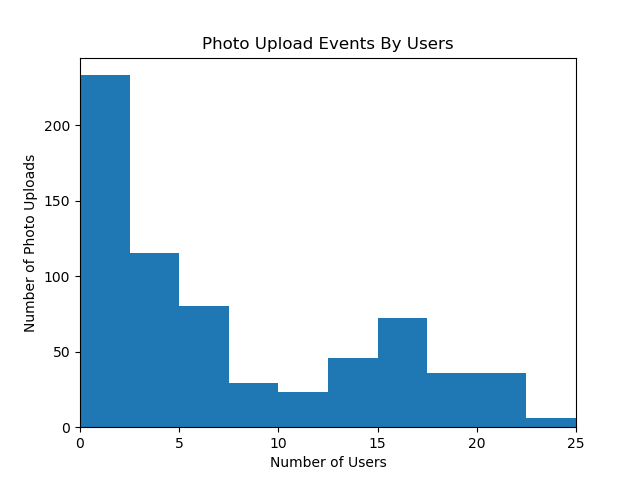
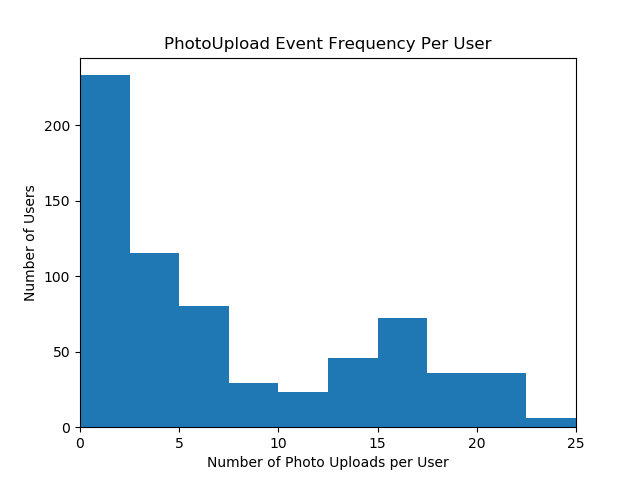
fixed mistake where x and y axis were rotated, relabeled portions of plot

Changed region(s): [[0.25, 0.0625, 0.7812, 0.125], [0.3125, 0.9375, 0.6875, 1.0], [0.0312, 0.3125, 0.0625, 0.6875]]

diff --git a/visualization.py b/visualization.py
@@ -14,9 +14,9 @@ if __name__ == "__main__":
     numEventsPerUser = [len(photoUploadsByUsers[key]) for key in photoUploadsByUsers.keys()]
     n, bins, patches = plt.hist(numEventsPerUser,  10, (0, 25))
     # print("Bins used", bins) #debug statement for visualization
-    plt.title("Photo Upload Events By Users")
-    plt.xlabel("Number of Users")
-    plt.ylabel("Number of Photo Uploads")
+    plt.title("PhotoUpload Event Frequency Per User")
+    plt.xlabel("Number of Photo Uploads per User")
+    plt.ylabel("Number of Users")
     plt.xlim(0, 25)
     plt.show()
 
